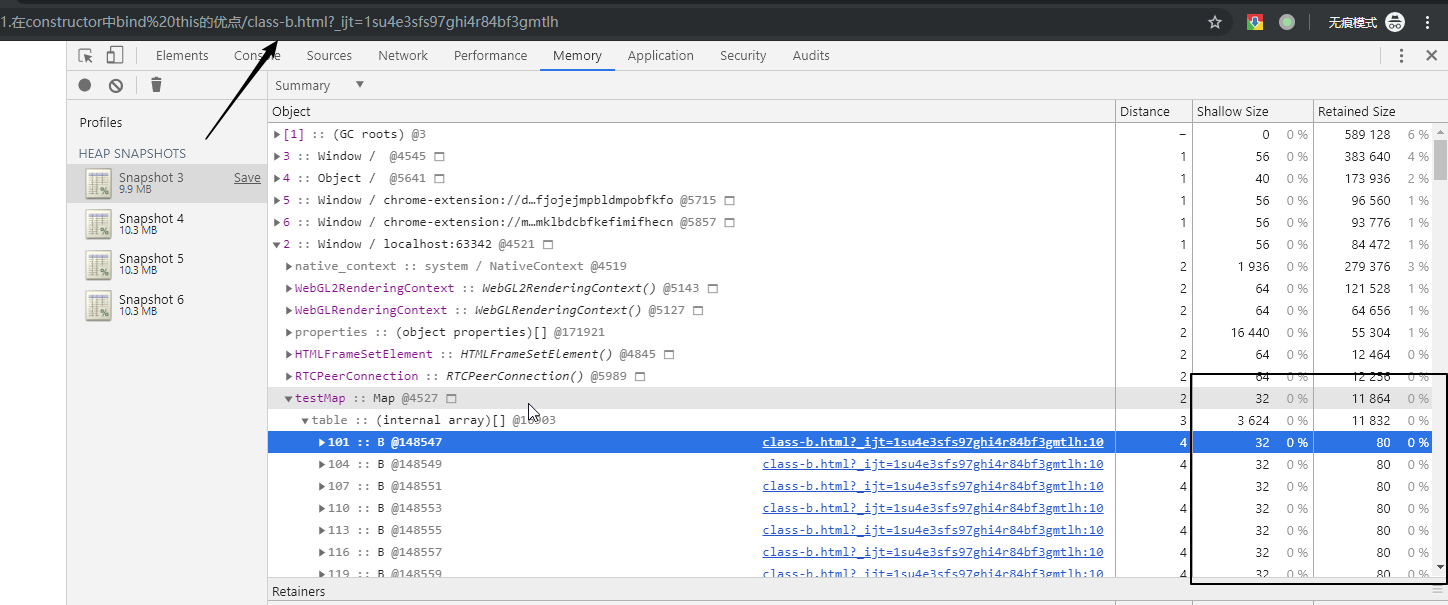
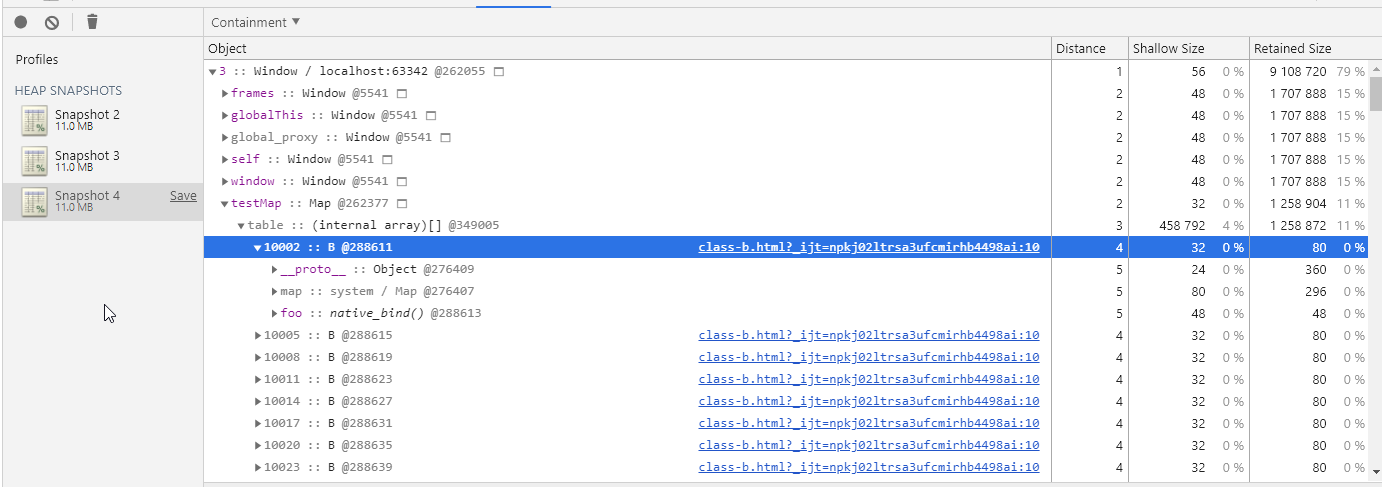
:sparkles: Introducing new features.

Changed region(s): [[0.0, 0.0, 1.0, 1.0]]

diff --git a/src/react/01.在constructor中bind this的优点/class-a.html b/src/react/01.在constructor中bind this的优点/class-a.html
@@ -14,7 +14,7 @@
 
       window.testMap = new Map();
 
-      while (testMap.size < 100) {
+      while (testMap.size < 10000) {
         testMap.set(testMap.size, new A());
       }
       console.log(testMap);

diff --git a/src/react/01.在constructor中bind this的优点/class-b.html b/src/react/01.在constructor中bind this的优点/class-b.html
@@ -17,7 +17,7 @@
 
       window.testMap = new Map();
 
-      while (testMap.size < 100) {
+      while (testMap.size < 10000) {
         testMap.set(testMap.size, new B());
       }
       console.log(testMap);

diff --git a/src/react/01.在constructor中bind this的优点/readme.md b/src/react/01.在constructor中bind this的优点/readme.md
@@ -63,3 +63,5 @@ var B = /** @class */ (function() {
 #### TODO
 
 **但是**我们也看到整个页面所占的内存并没有很大变化？稳定之后都是 10.3M。需要进一步探索
+
+**答案：** 由于测试的时候只生成 100 个对象，数据样本太小，得出结论不准确，现生成 10000 条数据测试发现已经相差快 1M 内存差距了。
